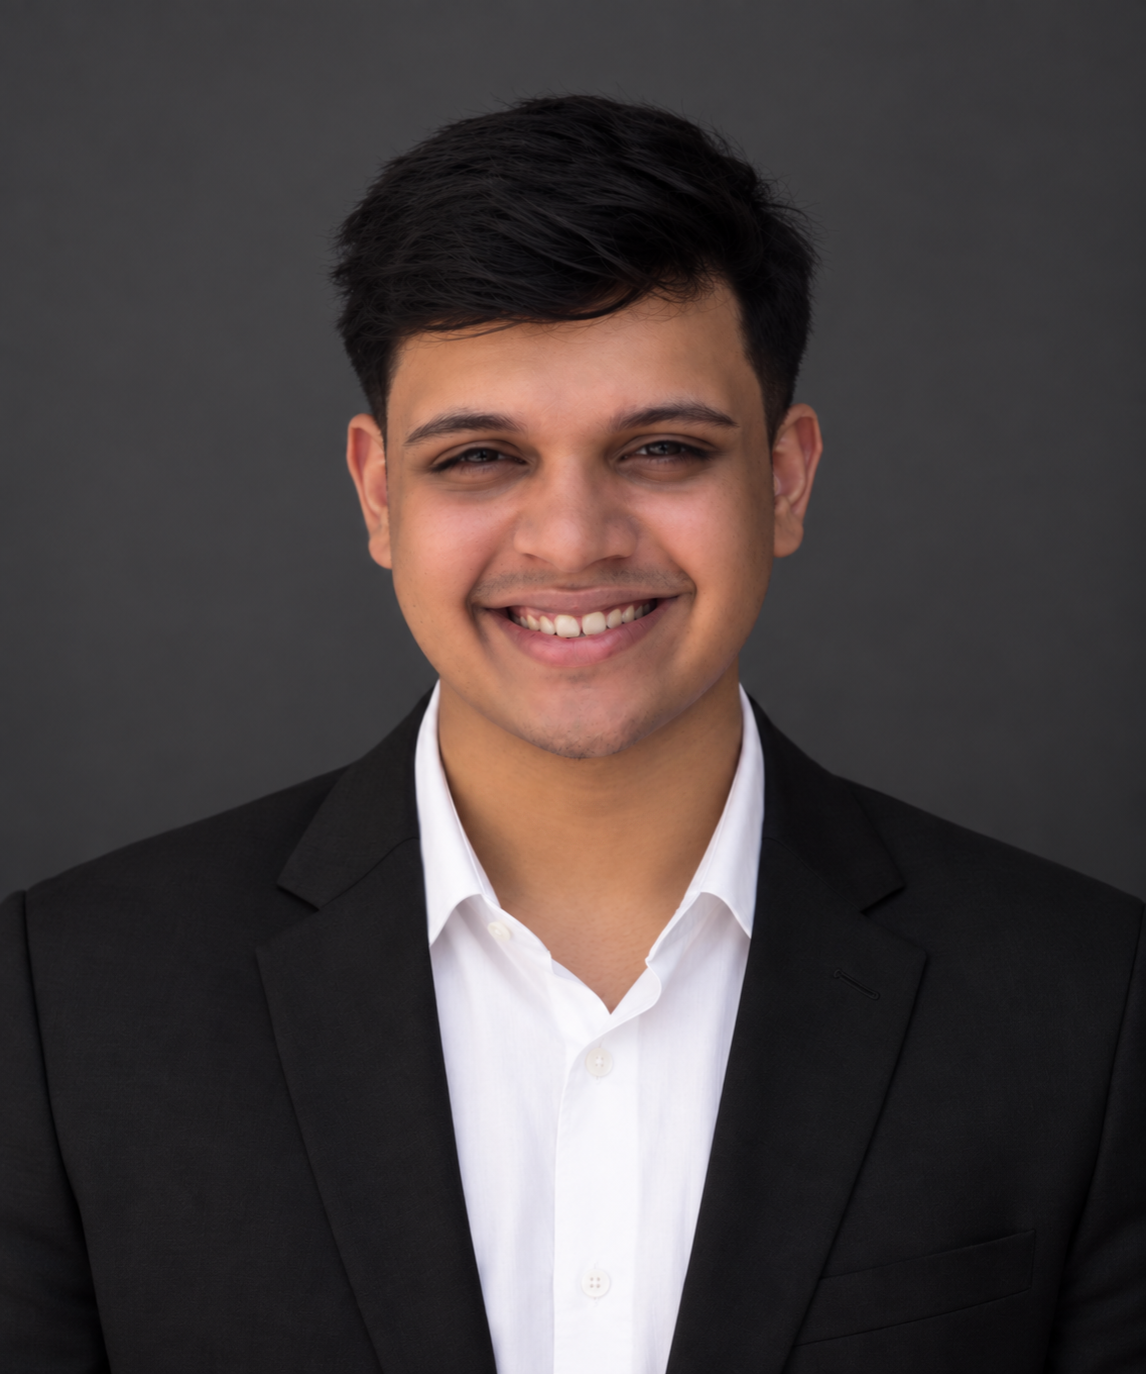
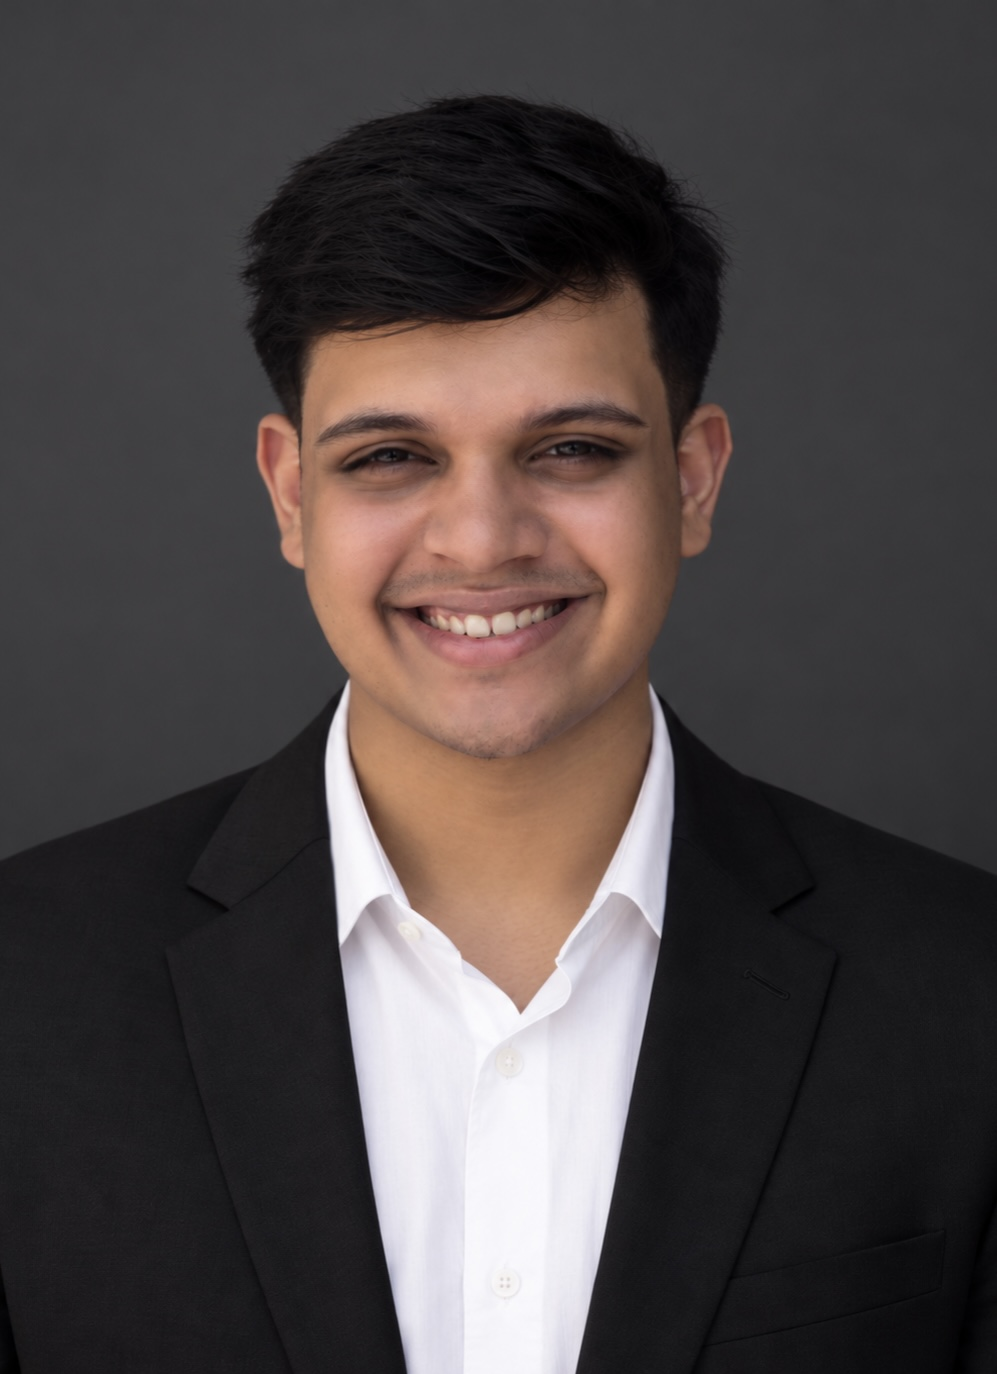
changes

diff --git a/_pages/about.md b/_pages/about.md
@@ -10,7 +10,7 @@ profile:
   image_circular: false # crops the image to make it circular
   more_info: >
     <p>University of Washington</p>
-    <p>Seattle, Washington, United States</p>
+    <p>Seattle, Washington, USA</p>
 
 selected_papers: true # includes a list of papers marked as "selected={true}"
 social: true # includes social icons at the bottom of the page
@@ -29,9 +29,7 @@ My current research focuses on **Multilingual and Multimodal Language Modeling**
 
 Previously, I was a Research Associate at the [AI4Bhārat Lab](https://ai4bharat.iitm.ac.in/) at [IIT Madras](https://www.iitm.ac.in/), where I spent nearly three years researching multilingual and multimodal language modeling and building state-of-the-art neural machine translation (NMT), automatic speech recognition (ASR), and text-to-speech (TTS) models for Indic languages. I had the privilege of working under the guidance of [Dr. Mitesh Khapra](https://www.cse.iitm.ac.in/~miteshk/), [Dr. Raj Dabre](https://prajdabre.github.io/), [Dr. Anoop Kunchukuttan](https://anoopkunchukuttan.github.io/) and [Dr.Rudra Murthy](https://murthyrudra.github.io/).
 
-I speak English, Hindi, Tamil, and Kannada (my brain code-switches more often than my models do!).
-
-Beyond CS research, I’m a [curious soul with wide-ranging interests](/assets/img/meme.jpg). I’m passionate about sports, cars, cinema, and music, and enjoy studying mathematics, physics, economics, neuroscience, philosophy, spirituality, and yes, a decillion other things!
+Beyond CS research, I’m a curious soul with wide-ranging interests. I’m passionate about sports, cars, cinema, and music, and enjoy studying mathematics, physics, economics, neuroscience, philosophy, spirituality, and yes, a decillion other things!
 
 I'm always up for interesting research problems, ambitious ideas, and collaborations with people who are excited about building things that matter. I’m also actively seeking research and professional opportunities in both academia and industry.
 
